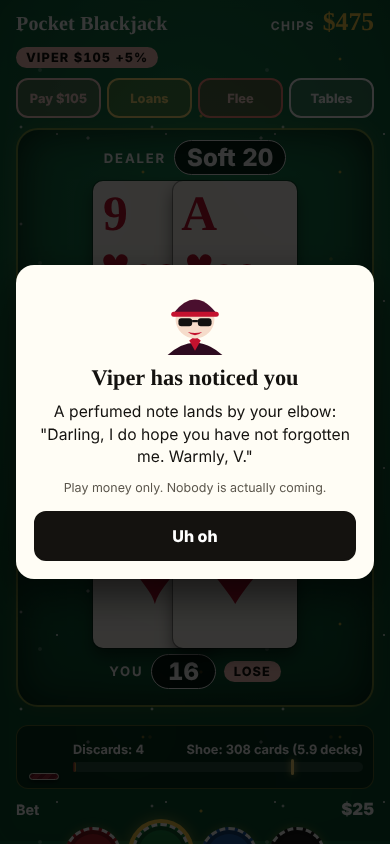
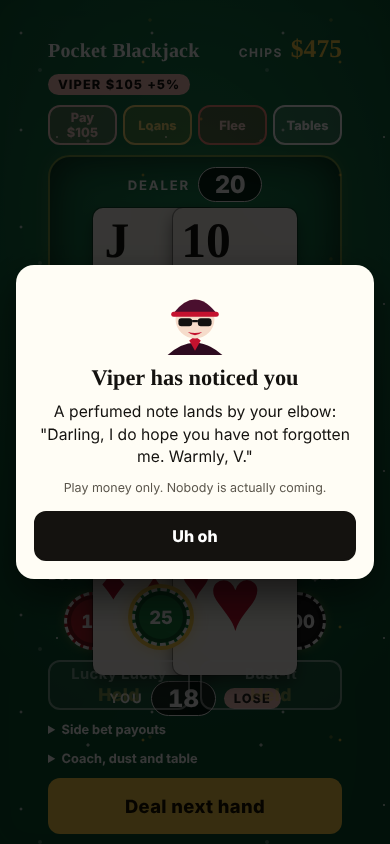
Add Baccarat table (punto banco): Player, Banker, Tie, shoe history, debt odds
Claude-Session: https://claude.ai/code/session_01TBic4fJHueRrgbEwivbnJZ

diff --git a/blackjack.html b/blackjack.html
@@ -58,7 +58,21 @@ body {
   -webkit-tap-highlight-color: transparent;
 }
 button { font: inherit; color: inherit; cursor: pointer; touch-action: manipulation; }
-html, body, .wheel, .plinko { touch-action: manipulation; -webkit-user-select: none; user-select: none; -webkit-touch-callout: none; }
+html, body, .wheel, .bac { display: flex; flex-direction: column; gap: 8px; padding: 12px 16px; overflow: auto; }
+.bhist { display: flex; flex-wrap: wrap; gap: 4px; min-height: 18px; justify-content: center; }
+.bhist i { width: 14px; height: 14px; border-radius: 50%; display: inline-block; }
+.bhist i.p { background: #2a6fdb; } .bhist i.b { background: #d62f3a; } .bhist i.t { background: #2f9e44; }
+.bzone { background: rgba(0, 0, 0, 0.28); border: 2px solid transparent; border-radius: 14px; padding: 8px 10px 10px; }
+.bzone.win { border-color: var(--brass); }
+.blab { display: flex; justify-content: space-between; align-items: center; margin-bottom: 4px; }
+.blab b { letter-spacing: 0.1em; font-size: 0.8rem; }
+.btot { font-family: var(--display); font-weight: 900; font-size: 1.5rem; min-width: 2ch; text-align: right; }
+.bhand { --ch: 84px; display: flex; justify-content: center; gap: 6px; min-height: 84px; }
+.bhand .card + .card { margin-left: 0; }
+.bhand .card { margin: 0; }
+#bPick button { line-height: 1.15; padding: 4px 2px; }
+#bPick small { font-weight: 600; font-size: 0.68rem; opacity: 0.8; }
+.plinko { touch-action: manipulation; -webkit-user-select: none; user-select: none; -webkit-touch-callout: none; }
 .whub, .wdisc, canvas { touch-action: manipulation; }
 button:focus-visible, summary:focus-visible { outline: 3px solid var(--brass); outline-offset: 2px; }
 
@@ -525,6 +539,30 @@ body::before { filter: brightness(var(--dimf, 1)); }
         <li>Nothing: keep one or two high cards (J, Q, K, A), or draw five new cards.</li>
       </ul>
       <p>Stuck? Press <b>Hint</b> any time during step 2 and the game shows the best cards to keep.</p>
+    </details>
+  </section>
+
+  <section class="bac" id="bac" hidden>
+    <div class="dhead"><h2>Baccarat</h2><p class="dsub" id="bSub">Bet on Player, Banker or Tie, then deal.</p></div>
+    <div class="bhist" id="bHist" aria-label="Recent results"></div>
+    <div class="bzone" id="bPZone"><div class="blab"><b>PLAYER</b><span id="bPT" class="btot"></span></div><div class="bhand" id="bPHand"></div></div>
+    <div class="bzone" id="bBZone"><div class="blab"><b>BANKER</b><span id="bBT" class="btot"></span></div><div class="bhand" id="bBHand"></div></div>
+    <p class="wbig" id="bBig" role="status" aria-live="polite"></p>
+    <p class="msg dmsg" id="bMsg"></p>
+    <div class="wtabs" id="bPick" role="group" aria-label="Bet on">
+      <button type="button" data-pick="player" aria-pressed="false">Player<br><small>pays 1 to 1</small></button>
+      <button type="button" data-pick="banker" aria-pressed="true">Banker<br><small id="bBankSub">pays 0.95 to 1</small></button>
+      <button type="button" data-pick="tie" aria-pressed="false">Tie<br><small id="bTieSub">pays 8 to 1</small></button>
+    </div>
+    <div class="betline"><span>Bet</span><b id="bWager">$25</b></div>
+    <div class="chips" id="bChips" role="group" aria-label="Bet size"></div>
+    <div class="sides"><button class="sidebtn" id="bAll" type="button">All in</button></div>
+    <button class="primary" id="bGo" type="button">Deal</button>
+    <details class="pay">
+      <summary>How Baccarat works</summary>
+      <p>Two hands, Player and Banker. Aces count 1, 2 to 9 count face value, and 10, J, Q, K count 0. A hand's total is the last digit of its sum, so 7 + 8 = 15 is a 5. Closest to 9 wins. You are betting on which side wins, not on a hand of your own.</p>
+      <p>An 8 or 9 on the first two cards is a <b>natural</b> and ends the round. Otherwise the Player draws on 0 to 5, and the Banker follows a fixed drawing rule. You never decide whether to draw.</p>
+      <p><b>Player</b> pays 1 to 1. <b>Banker</b> wins slightly more often, so it pays 0.95 to 1 (a 5% commission). <b>Tie</b> pays 8 to 1, and Player or Banker bets are returned on a tie. While you owe a shark the commission is waived and a tie pays 9 to 1. Interest still ticks on every hand.</p>
     </details>
   </section>
 
@@ -1079,7 +1117,7 @@ body::before { filter: brightness(var(--dimf, 1)); }
     var wsp = $('wisps'); wsp.style.opacity = room === 'high' || loans < 2 ? '0' : '1';
     Array.prototype.forEach.call(wsp.children, function (w, k) { w.style.display = k < loans ? '' : 'none'; });
     document.body.classList.toggle('hr', room === 'high');
-    $('title').textContent = game === 'derby' ? 'Roach Derby' : game === 'vp' ? 'Jacks or Better' : game === 'wheel' ? "Shark's Wheel" : game === 'plinko' ? 'Plinko' : (room === 'high' ? 'High-Roller Blackjack' : 'Pocket Blackjack');
+    $('title').textContent = game === 'derby' ? 'Roach Derby' : game === 'vp' ? 'Jacks or Better' : game === 'wheel' ? "Shark's Wheel" : game === 'plinko' ? 'Plinko' : game === 'bac' ? 'Baccarat' : (room === 'high' ? 'High-Roller Blackjack' : 'Pocket Blackjack');
   }
 
   function sleep(ms) { return new Promise(function (r) { setTimeout(r, ms); }); }
@@ -1799,12 +1837,109 @@ body::before { filter: brightness(var(--dimf, 1)); }
     });
   }
 
+
+  /* ---------- Baccarat (punto banco) ---------- */
+  var bac = { pick: 'banker', busy: false, shoe: [], hist: [], msg: '', cls: '', big: '', bigCls: '', sig: '', hit: '', pt: null, bt: null, ph: [], bh: [] };
+  try { var bh0 = JSON.parse(localStorage.getItem('pocket-bj-bac')); if (bh0 && bh0.length) bac.hist = bh0.slice(-40); } catch (e) {}
+  function bacVal(c) { return c.r === 'A' ? 1 : (RANKS.indexOf(c.r) >= 9 ? 0 : RANKS.indexOf(c.r) + 1); }
+  function bacTot(h) { return h.reduce(function (a, c) { return a + bacVal(c); }, 0) % 10; }
+  function bacShuffle() {
+    var d = [], i, j, k, t;
+    for (i = 0; i < 8; i++) SUITS.forEach(function (st) { RANKS.forEach(function (r) { d.push({ r: r, s: st }); }); });
+    for (j = d.length - 1; j > 0; j--) { k = Math.floor(Math.random() * (j + 1)); t = d[j]; d[j] = d[k]; d[k] = t; }
+    bac.shoe = d;
+  }
+  function bacDraw() { if (bac.shoe.length < 14) bacShuffle(); return bac.shoe.pop(); }
+  function bankerDraws(bt, p3) {
+    if (p3 === null) return bt <= 5;
+    if (bt <= 2) return true;
+    if (bt === 3) return p3 !== 8;
+    if (bt === 4) return p3 >= 2 && p3 <= 7;
+    if (bt === 5) return p3 >= 4 && p3 <= 7;
+    if (bt === 6) return p3 === 6 || p3 === 7;
+    return false;
+  }
+  function bacPays() { return wheelFav() ? { bank: 1, tie: 9 } : { bank: 0.95, tie: 8 }; }
+  function renderBac() {
+    var betting = (phase === 'bet' || phase === 'done') && !bac.busy, pay = bacPays();
+    if (bac.shoe.length === 0) bacShuffle();
+    $('bSub').textContent = bac.busy ? 'Dealing…' : 'Bet on Player, Banker or Tie, then deal.' + (wheelFav() ? ' Debt odds: no commission, tie pays 9 to 1.' : '');
+    $('bBankSub').textContent = 'pays ' + (pay.bank === 1 ? '1' : '0.95') + ' to 1'; $('bTieSub').textContent = 'pays ' + pay.tie + ' to 1';
+    Array.prototype.forEach.call($('bPick').children, function (b) { b.disabled = !betting; b.setAttribute('aria-pressed', String(b.dataset.pick === bac.pick)); });
+    $('bHist').textContent = '';
+    bac.hist.slice(-36).forEach(function (r) { var d = document.createElement('i'); d.className = r; d.title = r === 'p' ? 'Player' : r === 'b' ? 'Banker' : 'Tie'; $('bHist').appendChild(d); });
+    $('bPT').textContent = bac.pt === null ? '' : bac.pt; $('bBT').textContent = bac.bt === null ? '' : bac.bt;
+    $('bPZone').classList.toggle('win', bac.hit === 'p'); $('bBZone').classList.toggle('win', bac.hit === 'b');
+    $('bBig').textContent = bac.big; $('bBig').className = 'wbig' + (bac.bigCls ? ' ' + bac.bigCls : '');
+    var m = $('bMsg'); m.textContent = bac.msg; m.className = 'msg dmsg' + (bac.cls ? ' ' + bac.cls : '');
+    $('bWager').textContent = '$' + bet;
+    var box = $('bChips'), sg = CHIPS.join(',');
+    if (bac.sig !== sg) {
+      bac.sig = sg; box.textContent = '';
+      CHIPS.slice().reverse().forEach(function (v) {
+        var b = document.createElement('button'); b.type = 'button'; b.className = 'chip'; b.dataset.v = String(v); b.textContent = v >= 1000 ? (v / 1000) + 'K' : String(v);
+        b.addEventListener('click', function () { if (bac.busy || (phase !== 'bet' && phase !== 'done')) return; bet = v; render(); });
+        box.appendChild(b);
+      });
+    }
+    Array.prototype.forEach.call(box.children, function (b) { var v = parseInt(b.dataset.v, 10); b.disabled = !betting || v > bank; b.setAttribute('aria-pressed', String(v === bet)); });
+    $('bAll').disabled = !betting || bank < MIN; $('bAll').textContent = 'All in: $' + bank;
+    var go = $('bGo'); go.disabled = !betting || bank < bet || bank < MIN; go.textContent = bac.busy ? 'Dealing…' : 'Deal $' + bet + ' on ' + (bac.pick === 'player' ? 'Player' : bac.pick === 'banker' ? 'Banker' : 'Tie');
+  }
+  function bacShow(node, c) { var e = cardEl(c, false, true); e.classList.add('flipin'); node.appendChild(e); }
+  async function bacGo() {
+    if (bac.busy || (phase !== 'bet' && phase !== 'done') || bank < bet || bank < MIN || bet < MIN) return;
+    if (checkStakes()) return;
+    var stake = bet, pick = bac.pick, pay = bacPays();
+    bac.busy = true; phase = 'busy'; bac.hit = ''; bac.big = ''; bac.bigCls = ''; bac.pt = null; bac.bt = null;
+    $('bPHand').textContent = ''; $('bBHand').textContent = '';
+    bank -= stake; save();
+    var notes = tickDebts(); blindNext = false; save();
+    bac.msg = notes.length ? notes.join(' \u00b7 ') : ''; bac.cls = '';
+    render();
+    var P = [], B = [], p3 = null;
+    function deal(h, node, who) { var c = bacDraw(); h.push(c); bacShow(node, c); if (who === 'p') bac.pt = bacTot(P); else bac.bt = bacTot(B); renderBacTotals(); }
+    function renderBacTotals() { $('bPT').textContent = bac.pt === null ? '' : bac.pt; $('bBT').textContent = bac.bt === null ? '' : bac.bt; }
+    deal(P, $('bPHand'), 'p'); await sleep(550);
+    deal(B, $('bBHand'), 'b'); await sleep(550);
+    deal(P, $('bPHand'), 'p'); await sleep(550);
+    deal(B, $('bBHand'), 'b'); await sleep(700);
+    var pt = bacTot(P), bt = bacTot(B);
+    if (pt < 8 && bt < 8) {
+      if (pt <= 5) { var c3 = bacDraw(); P.push(c3); p3 = bacVal(c3); bacShow($('bPHand'), c3); bac.pt = bacTot(P); renderBacTotals(); await sleep(700); }
+      if (bankerDraws(bacTot(B), p3)) { var c4 = bacDraw(); B.push(c4); bacShow($('bBHand'), c4); bac.bt = bacTot(B); renderBacTotals(); await sleep(700); }
+    }
+    pt = bacTot(P); bt = bacTot(B);
+    var winner = pt > bt ? 'player' : bt > pt ? 'banker' : 'tie', back = 0;
+    if (winner === 'tie') back = pick === 'tie' ? stake * (pay.tie + 1) : stake;
+    else if (winner === pick) back = pick === 'player' ? stake * 2 : stake + Math.floor(stake * pay.bank);
+    back = Math.floor(back);
+    var net = back - stake;
+    bank += back; bac.busy = false; phase = 'done';
+    bac.hit = winner === 'player' ? 'p' : winner === 'banker' ? 'b' : 't';
+    bac.hist.push(bac.hit); if (bac.hist.length > 60) bac.hist.shift();
+    try { localStorage.setItem('pocket-bj-bac', JSON.stringify(bac.hist)); } catch (e) {}
+    var nat = (bacTot(P.slice(0, 2)) >= 8 || bacTot(B.slice(0, 2)) >= 8) ? ' (natural)' : '';
+    bac.big = (winner === 'tie' ? 'TIE ' + pt : (winner === 'player' ? 'PLAYER ' + pt + ' beats ' + bt : 'BANKER ' + bt + ' beats ' + pt)) + nat;
+    bac.bigCls = '';
+    bac.msg = (bac.msg ? bac.msg + ' \u00b7 ' : '') + (net > 0 ? 'You won $' + net + '.' : net < 0 ? 'You lost $' + (-net) + '.' : 'Bet returned.');
+    bac.cls = net > 0 ? 'win' : net < 0 ? 'lose' : '';
+    if (bet > bank) bet = bank >= MIN ? CHIPS.filter(function (v) { return v <= bank; })[0] || MIN : bet;
+    save(); render();
+    afterHand(function () { if (!checkStakes()) checkSal(); });
+  }
+  function bacWire() {
+    $('bGo').addEventListener('click', bacGo);
+    $('bAll').addEventListener('click', function () { if (bac.busy || (phase !== 'bet' && phase !== 'done')) return; bet = bank; render(); });
+    Array.prototype.forEach.call($('bPick').children, function (b) { b.addEventListener('click', function () { if (bac.busy) return; bac.pick = b.dataset.pick; render(); }); });
+  }
+
   /* ---------- Switching tables ---------- */
   function setGame(g) {
     if (g === game) return;
     game = g;
     if (g === 'derby') { if (CHIPS.indexOf(bet) < 0 || bet > bank) bet = bestChip(); newRace(); }
-    if (g === 'vp' || g === 'wheel' || g === 'plinko') { if (CHIPS.indexOf(bet) < 0 || bet > bank) bet = bestChip(); }
+    if (g === 'vp' || g === 'wheel' || g === 'plinko' || g === 'bac') { if (CHIPS.indexOf(bet) < 0 || bet > bank) bet = bestChip(); }
     if (g === 'bj' && bet > maxBet()) bet = bestChip();
     render();
     if (bank < MIN) checkSal();
@@ -1813,7 +1948,7 @@ body::before { filter: brightness(var(--dimf, 1)); }
     SHARKS.forEach(function (sh) { S[sh.id] = { debt: 0, held: 0, due: 0, hidden: false, bounty: 0 }; });
     wanted = 0; blindNext = false; blind = false; interestMsg = ''; insBet = 0; susp = 0; backoff = 0; deck = []; updateGlow();
     if (full) { unlocked = false; cleared = {}; stakesUnlocked = false; STORY = { mid: {}, paid: {} }; storyQ = []; saveStats(); }
-    room = 'low'; game = 'bj'; derby.phase = 'bet'; derby.pick = -1; derby.prop = 0; wheel.busy = false; plinko.busy = false; plinko.msg = ''; plinko.big = ''; wheel.mode = 'wheel'; wheel.msg = ''; wheel.big = ''; vp.phase = 'bet'; vp.cards = []; vp.hidden = [1, 1, 1, 1, 1]; vp.win = 0; vp.dbl = null; vp.result = '';
+    room = 'low'; game = 'bj'; derby.phase = 'bet'; derby.pick = -1; derby.prop = 0; wheel.busy = false; plinko.busy = false; bac.busy = false; bac.msg = ''; bac.big = ''; plinko.msg = ''; plinko.big = ''; wheel.mode = 'wheel'; wheel.msg = ''; wheel.big = ''; vp.phase = 'bet'; vp.cards = []; vp.hidden = [1, 1, 1, 1, 1]; vp.win = 0; vp.dbl = null; vp.result = '';
     clearInterval(derby.timer); derby.timer = null; rnd = Math.random;
     resetStack();
   }
@@ -1831,6 +1966,7 @@ body::before { filter: brightness(var(--dimf, 1)); }
       { label: 'Jacks or Better' + (game === 'vp' ? ' (here)' : ''), sub: 'Video poker. Hold, draw, get paid.', go: false, disabled: game === 'vp', fn: function () { setGame('vp'); } },
       { label: "Shark's Wheel" + (game === 'wheel' ? ' (here)' : ''), sub: 'Spin for a 10x jackpot or flip double or nothing', go: false, disabled: game === 'wheel', fn: function () { setGame('wheel'); } },
       { label: 'Plinko' + (game === 'plinko' ? ' (here)' : ''), sub: 'Drop the ball, up to 250x on the high-risk board', go: false, disabled: game === 'plinko', fn: function () { setGame('plinko'); } },
+      { label: 'Baccarat' + (game === 'bac' ? ' (here)' : ''), sub: 'Bet on Player, Banker or Tie. Closest to 9 wins', go: false, disabled: game === 'bac', fn: function () { setGame('bac'); } },
       { label: 'Restart game…', sub: 'Start over with a fresh stack', go: false, fn: restartMenu },
       { label: 'Close', go: false, fn: function () {} }
     ];
@@ -1838,8 +1974,8 @@ body::before { filter: brightness(var(--dimf, 1)); }
   }
   function renderTables() {
     var d = game === 'derby', betting = phase === 'bet' || phase === 'done';
-    $('bjTable').hidden = game !== 'bj'; $('tray').hidden = game !== 'bj'; $('bjControls').hidden = game !== 'bj'; $('derby').hidden = !d; $('vp').hidden = game !== 'vp'; $('wheel').hidden = game !== 'wheel'; $('plinko').hidden = game !== 'plinko';
-    el.stakesBtn.hidden = !(stakesUnlocked && room === 'low' && !d && game !== 'wheel' && game !== 'plinko' && betting);
+    $('bjTable').hidden = game !== 'bj'; $('tray').hidden = game !== 'bj'; $('bjControls').hidden = game !== 'bj'; $('derby').hidden = !d; $('vp').hidden = game !== 'vp'; $('wheel').hidden = game !== 'wheel'; $('plinko').hidden = game !== 'plinko'; $('bac').hidden = game !== 'bac';
+    el.stakesBtn.hidden = !(stakesUnlocked && room === 'low' && !d && game !== 'wheel' && game !== 'plinko' && game !== 'bac' && betting);
     el.stakesBtn.textContent = stakes ? 'Lower stakes' : 'Raise stakes';
     el.stakesBtn2.hidden = !(stakesUnlocked && room === 'low' && d && derby.phase !== 'run');
     el.stakesBtn2.textContent = stakes ? 'Lower stakes' : 'Raise stakes';
@@ -1847,6 +1983,7 @@ body::before { filter: brightness(var(--dimf, 1)); }
     if (game === 'vp') renderVp();
     if (game === 'wheel') renderWheel();
     if (game === 'plinko') renderPlinko();
+    if (game === 'bac') renderBac();
   }
 
   /* ---------- Back Alley Roach Derby ---------- */
@@ -2442,7 +2579,7 @@ body::before { filter: brightness(var(--dimf, 1)); }
     render();
   }
 
-  applySkin(); wheelWire(); plinkoWire();
+  applySkin(); wheelWire(); plinkoWire(); bacWire();
   /* iOS: touch-action manipulation above stops double-tap zoom without blocking fast taps; this stops pinch zoom. */
   document.addEventListener('gesturestart', function (e) { e.preventDefault(); });
   $('skinBtn').addEventListener('click', function () { skin = (skin + 1) % SKINS.length; applySkin(); });
